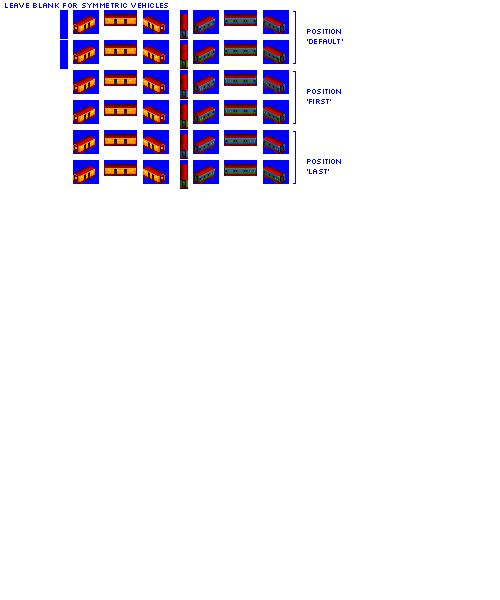
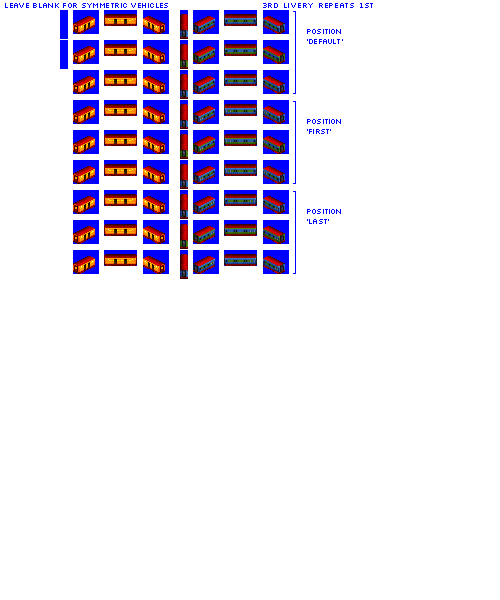
Change: additional livery for Firebird

diff --git a/src/vehicles/firebird.py b/src/vehicles/firebird.py
@@ -13,7 +13,7 @@ def main(roster_id):
             "DIESEL": 3300,  # it's the Deltic that never was!  It's OP, but eh, it's just cartoon trains.
         },
         gen=4,
-        additional_liveries=["BLUE_PULLMAN"],
+        additional_liveries=["BLUE_PULLMAN", "BLUE_PULLMAN"], # can repeat livery metadata for different spriterows, so eh
         sprites_complete=True,
     )
 
